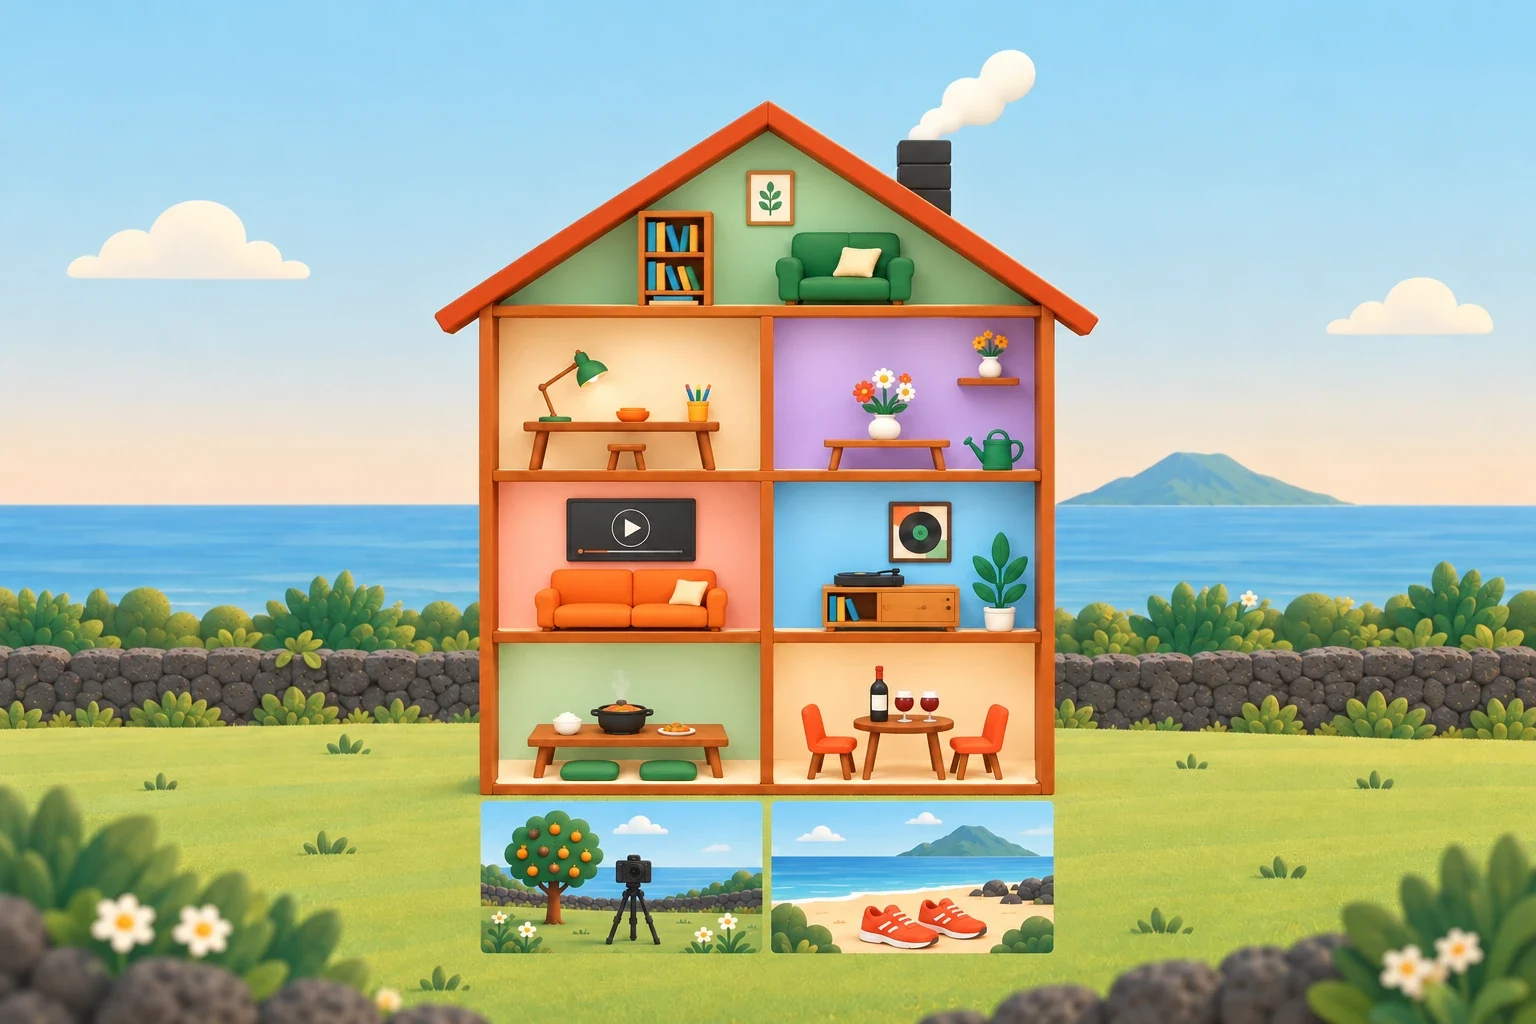
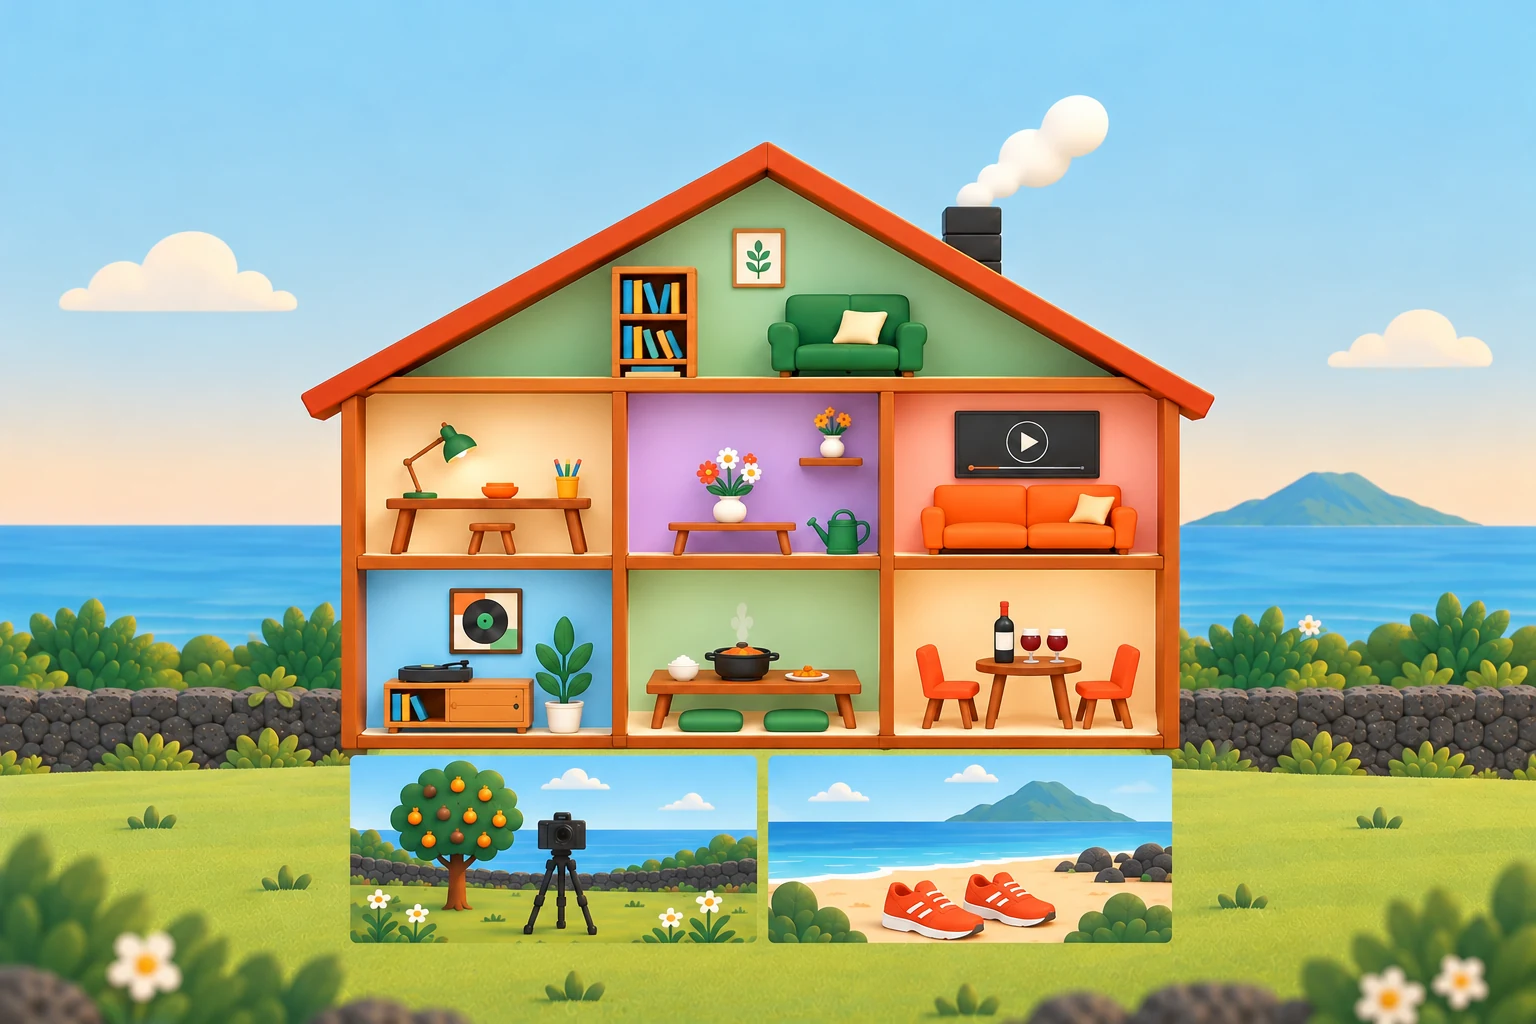
CHECK OUT — 받은 그림 비탈을 왼쪽으로 이어 그려 오른쪽 아래에 붙이고 로고 크게 · 글은 왼쪽 위(안 겹치게), 제목 '제주에 와서 어떤 하루를 보내고 싶나요?' · MORE STORIES 웹은 글 왼쪽 · 사진 오른쪽 · 웹 집 그림 한 층 세 칸으로

diff --git a/src/styles/home.css b/src/styles/home.css
@@ -350,12 +350,12 @@
 .more__grid a:hover img { transform: scale(1.03); }
 .more__grid a:focus-visible { outline: 3px solid var(--orange); outline-offset: -3px; }
 .more__copy { display: grid; justify-items: center; gap: 14px; }
-/* 넓은 화면 — 테스트 칸(왼쪽 글 · 오른쪽 그림)과 거울처럼: 왼쪽 사진 격자, 오른쪽 글(왼쪽 맞춤, 테스트 칸과 같은 제목 크기) */
+/* 넓은 화면 — 테스트 칸(왼쪽 글 · 오른쪽 그림)과 같은 배치: 왼쪽 글(왼쪽 맞춤, 테스트 칸과 같은 제목 크기), 오른쪽 사진 격자 */
 @media (min-width: 900px) {
   /* 사진 · 글을 한 덩어리로 화면 가운데에 */
-  .more { grid-template-columns: minmax(0, 560px) minmax(0, max-content); justify-content: center; align-items: center; justify-items: start; column-gap: clamp(48px, 6vw, 104px); text-align: left; }
-  .more__grid { grid-column: 1; grid-row: 1; width: 100%; margin: 0; }
-  .more__copy { grid-column: 2; grid-row: 1; justify-items: start; gap: 16px; }
+  .more { grid-template-columns: minmax(0, max-content) minmax(0, 560px); justify-content: center; align-items: center; justify-items: start; column-gap: clamp(48px, 6vw, 104px); text-align: left; }
+  .more__grid { grid-column: 2; grid-row: 1; width: 100%; margin: 0; }
+  .more__copy { grid-column: 1; grid-row: 1; justify-items: start; gap: 16px; }
   .more__copy .more__hint { margin-top: calc(var(--hint-gap) - 14px); }
   .more__title { font-size: clamp(27px, 3.8vw, 46px); line-height: 1.32; letter-spacing: -0.025em; }
 }
@@ -379,15 +379,19 @@
 
 /* ── CHECK OUT — 메인 마지막 마무리 (인트로와 같은 현무암 먹색으로 처음과 끝을 맞춤) ─────────────────────────────── */
 /* 배경 — 받은 그림 한 장을 오른쪽 아래 기준으로 꽉 채움. 글은 왼쪽 크림 자리에, 로고와 안 겹치게 폭을 그림 절반 안쪽으로 */
-.outro { background: #FEFDF9 var(--outro-bg) right bottom / cover no-repeat; color: #2B2826; letter-spacing: normal; min-height: clamp(420px, 42vw, 640px); }
+/* 배경 — 받은 가로 그림(비탈을 왼쪽으로 이어 그려 넓힌 것)을 오른쪽 아래에 높이 --bgh 로 붙임.
+   그림 속 로고는 오른쪽 아래(그림 높이의 위 32% 아래), 글은 왼쪽 위 크림 자리 — 칸 높이를 그림보다 조금 크게 해 제목이 로고 위에 오게 */
+.outro {
+  --bgh: min(49vw, 562px);
+  background: #FEFDF9 var(--outro-bg) right bottom / auto var(--bgh) no-repeat; color: #2B2826; letter-spacing: normal;
+  min-height: calc(var(--bgh) + 40px);
+}
 .outro .label { letter-spacing: .16em; color: #E0702B; }
-.outro__inner > * { width: min(100%, 520px, 44vw - var(--gutter)); }
 .outro__closing { color: #5F5A55; }
-/* 휴대폰 — 세로 그림(위는 크림 종이, 아래 오른쪽에 로고). 칸 폭에 맞춰 아래에 붙이고, 글은 위 크림 자리에 (로고가 글 밑에 오도록 아래 여백) */
+/* 휴대폰 — 로고를 크게(화면 절반쯤), 글 아래 오른쪽 · 버튼 옆으로. 아래 여백을 그림 속 반짝이 높이만큼 둬 버튼과 안 겹치게 */
 @media (max-width: 699px) {
-  .outro { min-height: calc(100vw * 1449 / 1087); background-image: var(--outro-bg-m); background-size: 100% auto; background-position: center bottom; }
-  .outro .outro__inner { padding-bottom: 58vw; }
-  .outro__inner > * { width: 100%; }
+  .outro { --bgh: min(82vw, 430px); min-height: 0; }
+  .outro .outro__inner { padding-bottom: max(var(--bgh) * .683 - 64px, var(--bgh) * .465 + 14px); } /* 로고 윗선은 설명 글 아래, 반짝이는 버튼 아래로 */
 }
 .outro__inner { display: grid; justify-items: start; text-align: left; gap: clamp(18px, 2.6vh, 28px); padding: clamp(56px, 9vh, 96px) 0 clamp(60px, 10vh, 104px); } /* 글 양에 맞게 칸을 줄임 */
 .outro__head { display: grid; justify-items: start; gap: 16px; }

diff --git a/src/pages/HousePage.tsx b/src/pages/HousePage.tsx
@@ -20,7 +20,8 @@ const VIEW_KEY = 'jejulog:house-view';
 /**
  * 받은 그림 두 장 속 방 자리 · 이름표 자리 — 그림 픽셀 기준
  * room: 방 네모 [x1, y1, x2, y2] / tag: 이름표 자리 [x, y, 최소 너비] (center — 가운데 기준, 다락)
- * 다락 책 · 3F 반지공방 · 꽃꽂이 · 2F 영화 · LP · 1F 집밥 · 와인 · 마당 스냅사진 · 러닝
+ * 휴대폰: 다락 책 · 3F 반지공방 · 꽃꽂이 · 2F 영화 · LP · 1F 집밥 · 와인 · 마당 스냅사진 · 러닝
+ * 웹: 다락 책 · 위층 반지공방 · 꽃꽂이 · 영화 · 아래층 LP · 집밥 · 와인 · 마당 스냅사진 · 러닝
  * 휴대폰(좁은 화면) — 세로 그림, 웹(넓은 화면) — 양옆 풍경까지 그려진 가로 그림을 화면 폭에 꽉 차게
  */
 type Spot = { id: ProgramId; room: [number, number, number, number]; tag: [number, number, number]; center?: boolean };
@@ -40,19 +41,19 @@ const HOUSES: Record<'narrow' | 'wide', { url: string; w: number; h: number; spo
       { id: 'running', room: [551, 1168, 878, 1348], tag: [564, 1181, 89] },
     ],
   },
-  // 웹 — 가로 그림 (1536 × 1024)
+  // 웹 — 가로 그림 (1536 × 1024) · 다락 1칸 + 한 층에 세 칸씩 두 층 + 마당 2칸
   wide: {
     url: houseWideUrl, w: 1536, h: 1024,
     spots: [
-      { id: 'book', room: [497, 130, 1038, 306], tag: [768, 175, 66], center: true },
-      { id: 'craft', room: [497, 316, 759, 471], tag: [509, 328, 122] },
-      { id: 'flower', room: [773, 316, 1038, 471], tag: [785, 328, 95] },
-      { id: 'cinema', room: [497, 481, 759, 632], tag: [509, 493, 84] },
-      { id: 'lp', room: [773, 481, 1038, 632], tag: [785, 493, 70] },
-      { id: 'homemeal', room: [497, 641, 759, 784], tag: [509, 653, 85] },
-      { id: 'wine', room: [773, 641, 1038, 784], tag: [785, 653, 83] },
-      { id: 'camping', room: [481, 801, 762, 952], tag: [493, 813, 120] },
-      { id: 'running', room: [771, 801, 1054, 952], tag: [783, 813, 89] },
+      { id: 'book', room: [362, 165, 1165, 378], tag: [764, 205, 66], center: true },
+      { id: 'craft', room: [355, 392, 612, 555], tag: [367, 404, 122] },
+      { id: 'flower', room: [626, 392, 880, 555], tag: [638, 404, 95] },
+      { id: 'cinema', room: [892, 392, 1165, 555], tag: [904, 404, 84] },
+      { id: 'lp', room: [355, 568, 612, 735], tag: [367, 580, 70] },
+      { id: 'homemeal', room: [626, 568, 880, 735], tag: [638, 580, 85] },
+      { id: 'wine', room: [892, 568, 1165, 735], tag: [904, 580, 83] },
+      { id: 'camping', room: [350, 755, 757, 942], tag: [362, 767, 120] },
+      { id: 'running', room: [768, 755, 1172, 942], tag: [780, 767, 89] },
     ],
   },
 };

diff --git a/src/pages/HomePage.tsx b/src/pages/HomePage.tsx
@@ -11,7 +11,6 @@ import { BeachDivider } from '../components/BeachDivider';
 import { GrassLedge } from '../components/GrassLedge';
 import introNightUrl from '../assets/intro-night.webp';
 import checkoutBgUrl from '../assets/checkout-stay.webp';
-import checkoutBgMobileUrl from '../assets/checkout-stay-m.webp';
 import stripLpWall from '../assets/strip/lp-wall.webp';
 import stripPotluck from '../assets/strip/potluck-wall.webp';
 import stripCat from '../assets/strip/flower-cat.webp';
@@ -514,8 +513,8 @@ function CheckOut() {
   const { site: SITE } = useContent();
   const c = SITE.checkOut;
   return (
-    // 배경 — 받은 그림(크림 종이 · 초록 언덕 위 stay Log 집 로고). 웹은 가로 그림(글 왼쪽 · 로고 오른쪽 아래), 휴대폰은 세로 그림(글 위 · 로고 아래)
-    <section id="checkout" className="outro" data-tone="light" aria-labelledby="checkout-title" style={{ '--outro-bg': `url(${checkoutBgUrl})`, '--outro-bg-m': `url(${checkoutBgMobileUrl})` } as CSSProperties}>
+    // 배경 — 받은 그림(크림 종이 · 찢어진 종이 · 초록 언덕 위 stay Log 집 로고)을 오른쪽 아래에. 글은 왼쪽 위, 로고는 글 아래 오른쪽 (휴대폰은 버튼 오른쪽 아래)
+    <section id="checkout" className="outro" data-tone="light" aria-labelledby="checkout-title" style={{ '--outro-bg': `url(${checkoutBgUrl})` } as CSSProperties}>
       <div className="outro__inner wrap">
         <header className="outro__head">
           <p className="label">{c.label}</p>

diff --git a/src/data/site.ts b/src/data/site.ts
@@ -45,7 +45,7 @@ export const SITE = {
 
   checkOut: {
     label: 'CHECK OUT',
-    title: ['다음 제주에서는 어떤 하루를 보내고 싶나요?'],
+    title: ['제주에 와서 어떤 하루를 보내고 싶나요?'],
     sub: '게스트하우스에는 파티 말고도\n당신의 취향에 맞는\n다양한 경험이 기다리고 있습니다.',
     cta: '다시 둘러보기',
     instagram: '인스타그램 보러가기',

diff --git a/src/i18n/en.ts b/src/i18n/en.ts
@@ -46,7 +46,7 @@ export const EN: ContentPack = {
 
     checkOut: {
       label: 'CHECK OUT',
-      title: ['What kind of day do you want on your next Jeju trip?'],
+      title: ['What kind of day would you like to spend in Jeju?'],
       sub: 'Beyond parties, guesthouses hold\nall kinds of experiences\nwaiting to match your taste.',
       cta: 'Look around again',
       instagram: 'See us on Instagram',

diff --git a/src/i18n/zh.ts b/src/i18n/zh.ts
@@ -43,7 +43,7 @@ export const ZH: ContentPack = {
 
     checkOut: {
       label: 'CHECK OUT',
-      title: ['下次来济州，你想度过怎样的一天？'],
+      title: ['来到济州，你想度过怎样的一天？'],
       sub: '民宿里除了派对，\n还有许多契合你喜好的\n体验在等着你。',
       cta: '再逛一遍',
       instagram: '去看看 Instagram',
